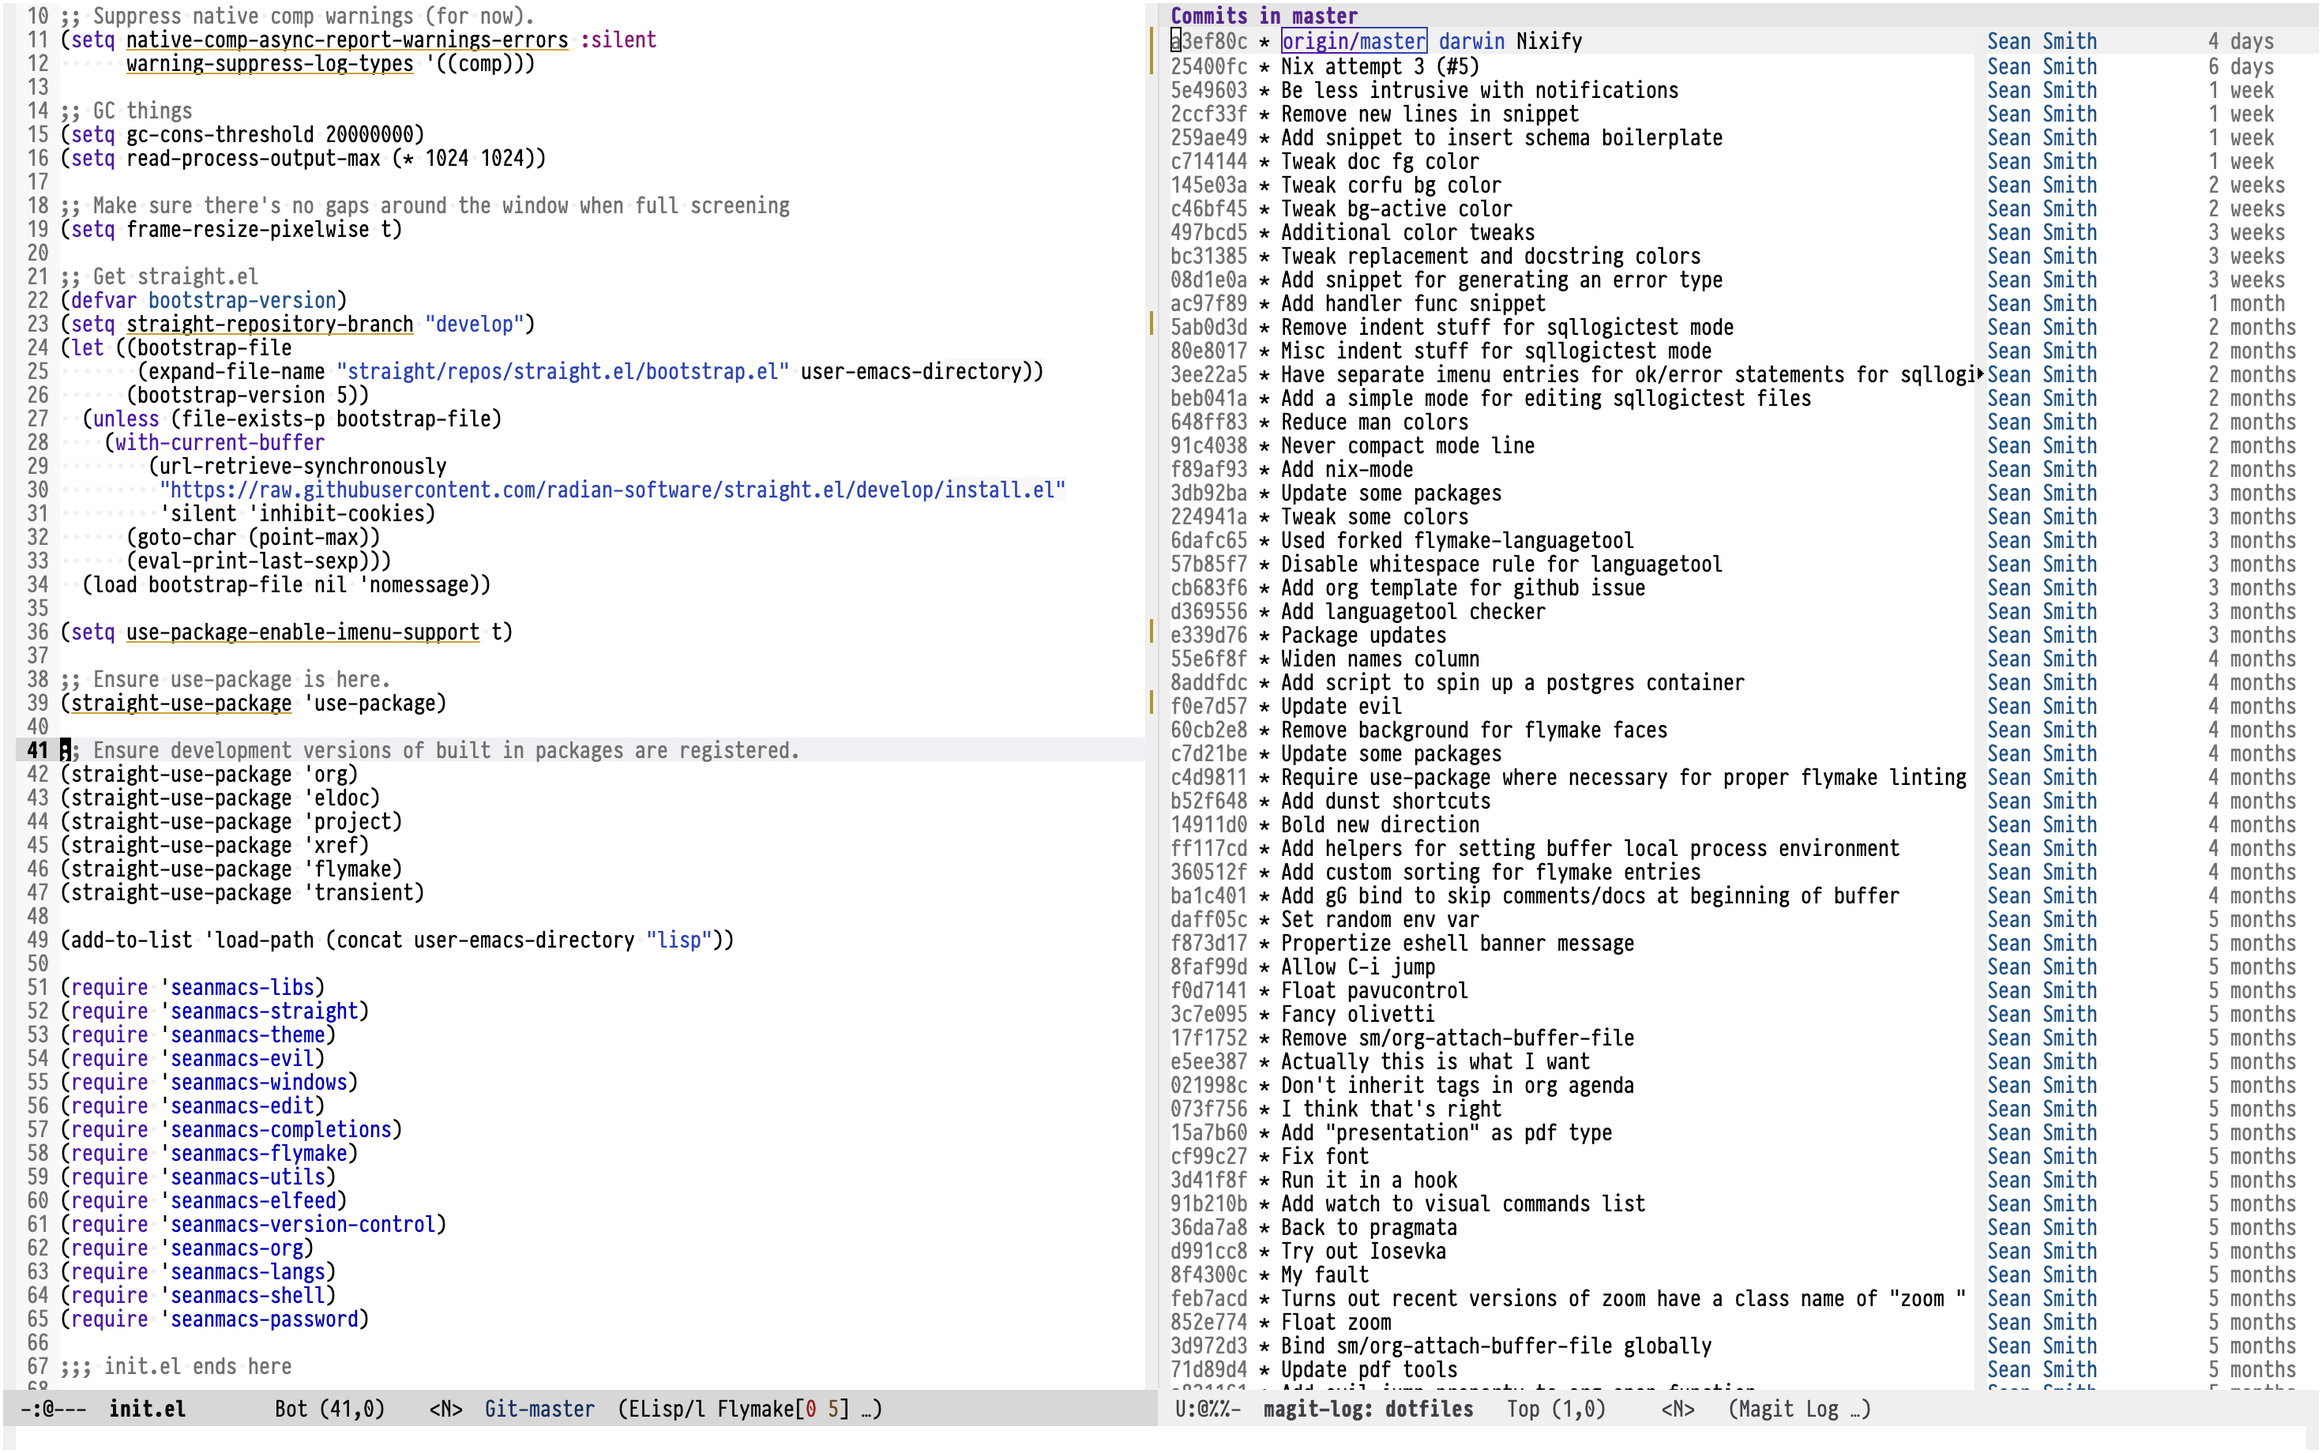
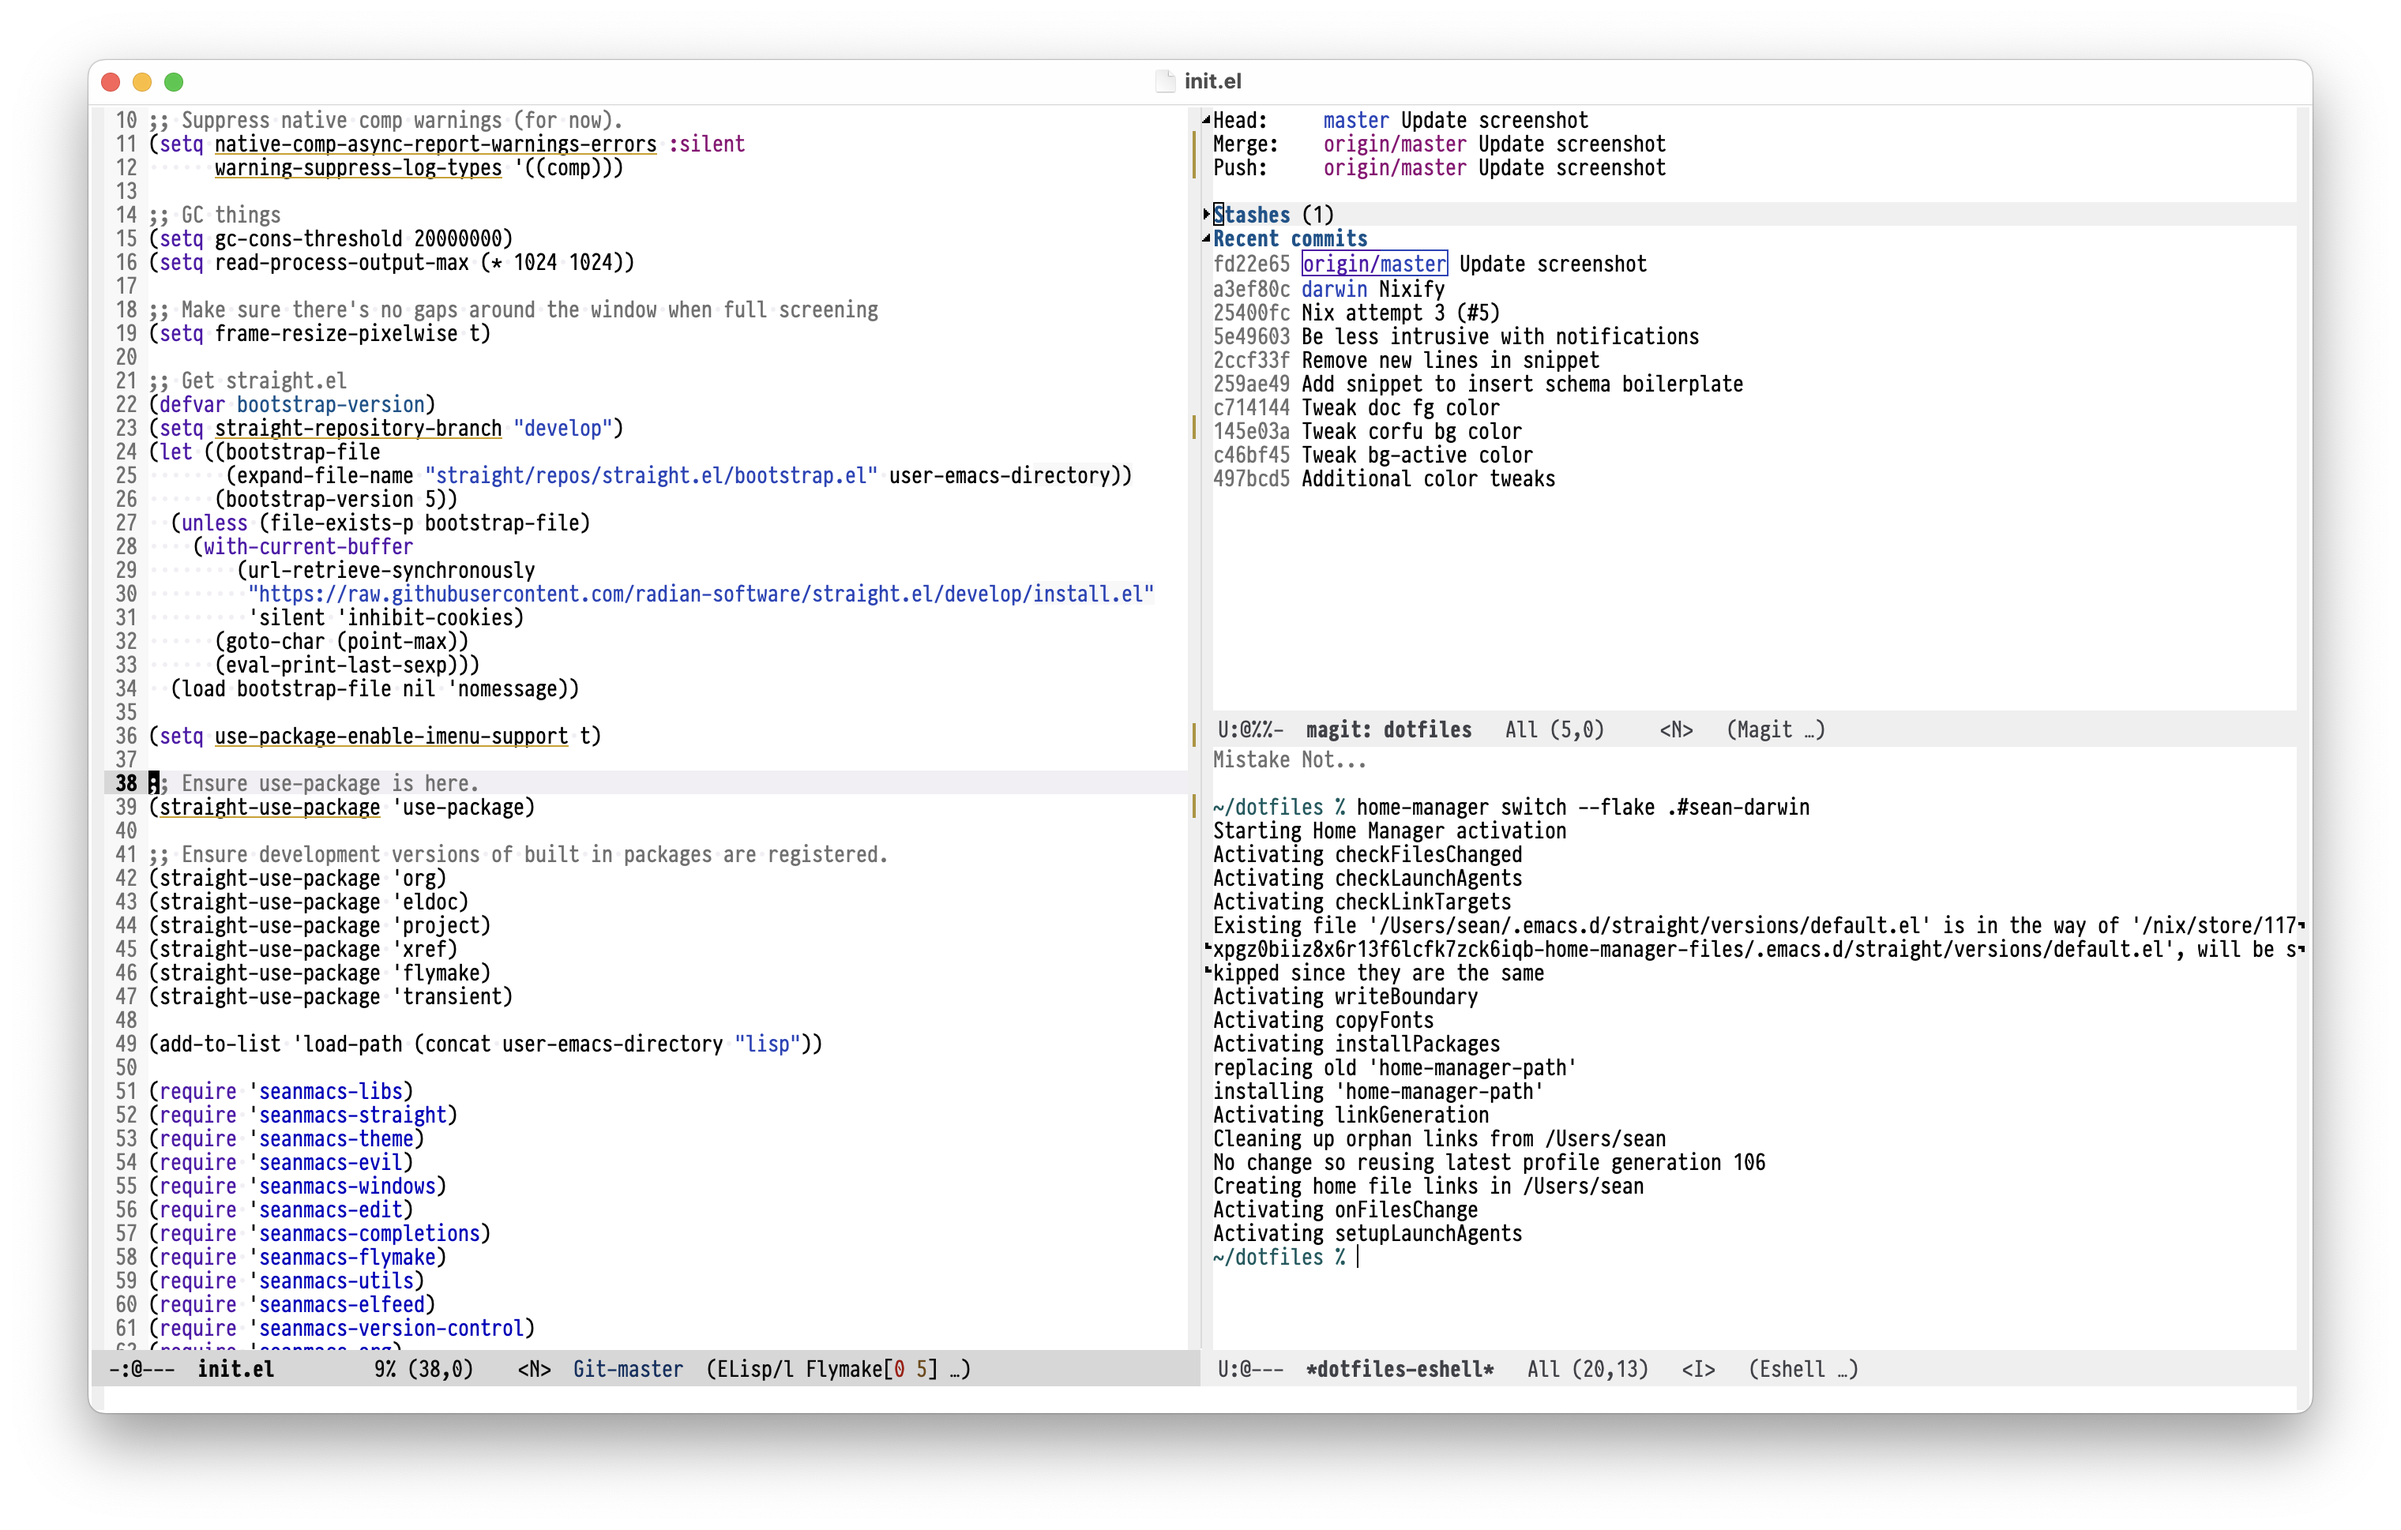
Better screenshot

Changed region(s): [[0.0, 0.0, 1.0, 0.9913], [0.2786, 0.5576, 0.3095, 0.5886], [0.2167, 0.6815, 0.2476, 0.7125]]

diff --git a/README.md b/README.md
@@ -14,7 +14,8 @@ home-manager switch --flake .#sean-darwin
 
 ## Emacs
 
-Running `link.sh` will symlink emacs files to `~/.emacs.d`.
+Emacs configuration will be placed in `~/.emacs.d` when running `home-manager
+switch ...`.
 
 ![Emacs screenshot](./screenshot.png)
 
